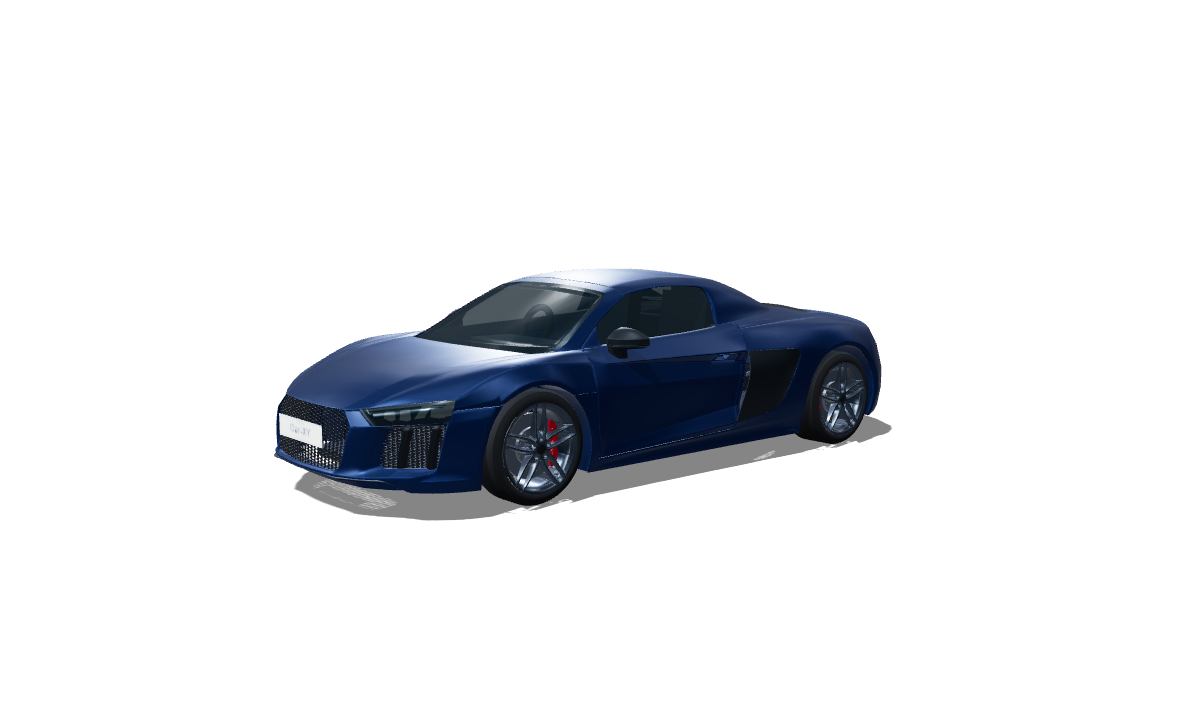
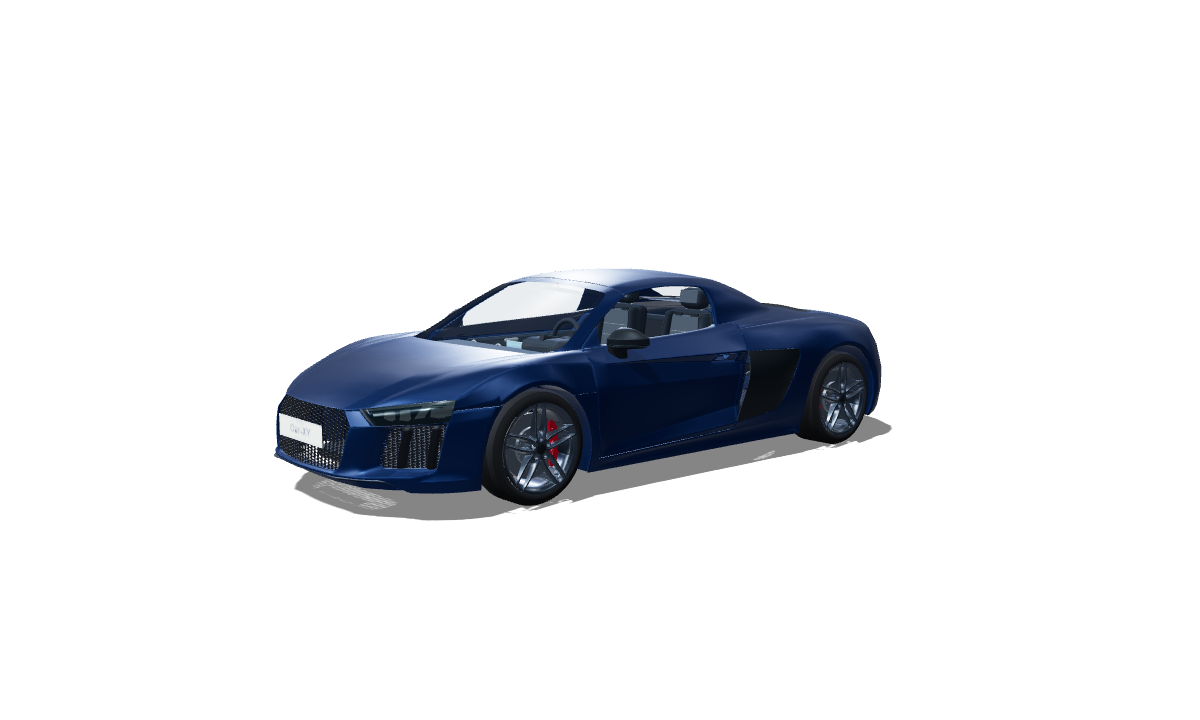
Refresh cabin scene fallback images

Changed region(s): [[0.37, 0.3667, 0.6167, 0.4889]]

diff --git a/src/main.jsx b/src/main.jsx
@@ -1,16 +1,9 @@
-import React, {useState} from 'react';
+import React from 'react';
 import { createRoot } from 'react-dom/client';
 import App from './App.jsx';
 import './styles.css';
 import './topdown.css';
 import './garage.css';
 import './portfolio.css';
-import Scene from './Scene.jsx';
-import GarageRoom from './GarageRoom.jsx';
 
-function PosterCapture({kind}) {
-  const [frame,setFrame]=useState(null);
-  return <div className="poster-capture scene-ready" style={{position:'fixed',inset:0,background:'#152237'}}><style>{'.poster-capture>.car-scene,.poster-capture>.garage-three-room{position:absolute;inset:0;width:100%;height:100%;opacity:1}'}</style>{kind==='hero'?<Scene onSnapshot={setFrame}/>:<GarageRoom onSnapshot={setFrame}/>} {frame&&<a id="save-poster" href={frame} download="scene.png" style={{position:'absolute',top:10,right:10,zIndex:20,padding:12,background:'#182a40'}}>Save PNG</a>}</div>;
-}
-const capture=new URLSearchParams(location.search).get('poster-capture');
-createRoot(document.getElementById('root')).render(capture?<PosterCapture kind={capture}/>:<App />);
+createRoot(document.getElementById('root')).render(<App />);
